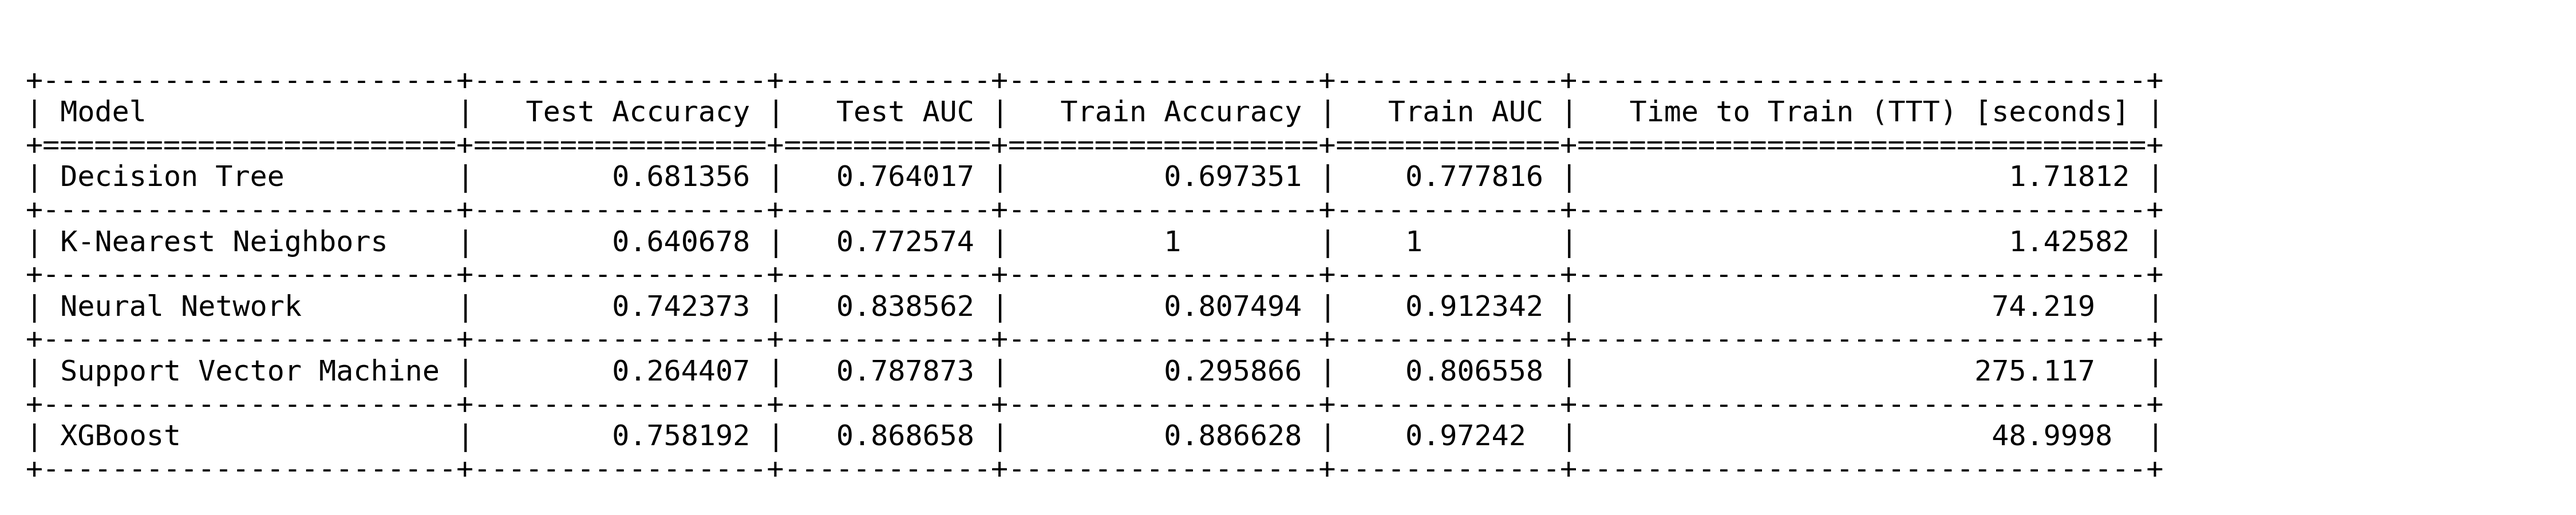
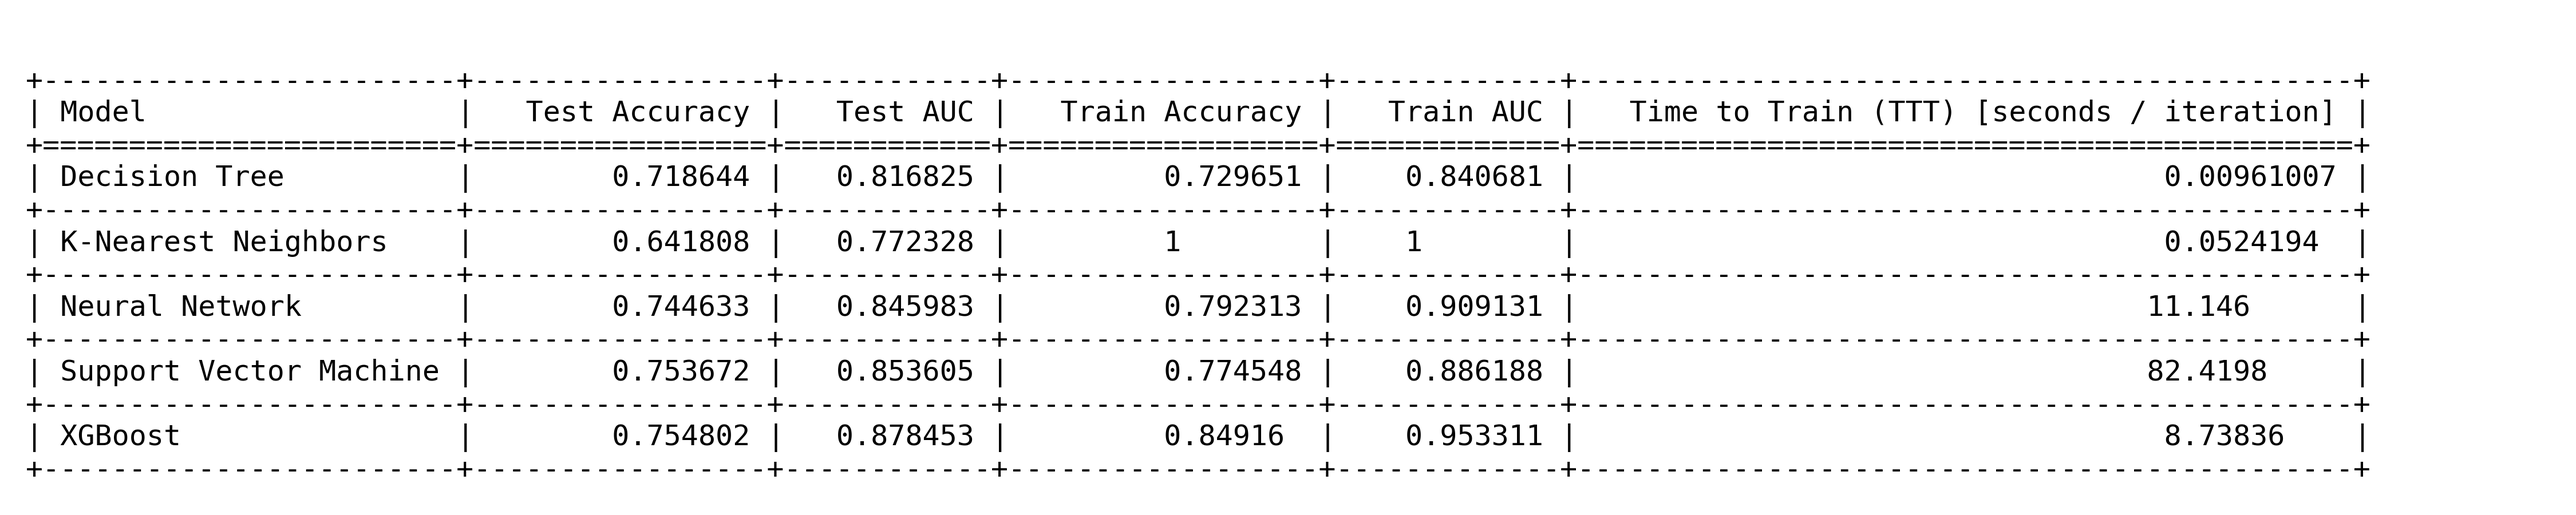
need to rerun tables

diff --git a/main/main.py b/main/main.py
@@ -207,14 +207,27 @@ def get_auction_verification_model_metrics(
 
     #############
     start_time = time.time()
-    input_size, num_epochs = X_train.shape[1], 500
+    input_size, num_epochs, learning_rate, multiclass, num_classes = (
+        X_train.shape[1],
+        500,
+        0.001,
+        False,
+        2,
+    )
     (
         nn_test_accuracy,
         nn_test_auc,
         nn_train_accuracy,
         nn_train_auc,
     ) = neural_network_metrics(
-        train_loader, val_loader, test_loader, input_size, num_epochs
+        train_loader,
+        val_loader,
+        test_loader,
+        input_size,
+        num_epochs,
+        learning_rate,
+        multiclass,
+        num_classes,
     )
     end_time = time.time()
     nn_elapsed_time = end_time - start_time
@@ -263,7 +276,7 @@ def get_auction_verification_model_metrics(
                 nn_test_auc,
                 nn_train_accuracy,
                 nn_train_auc,
-                nn_elapsed_time / 10,
+                nn_elapsed_time / 500,
             ],
             [
                 "Support Vector Machine",
@@ -435,7 +448,7 @@ def get_student_dropout_model_metrics(
                 nn_test_auc,
                 nn_train_accuracy,
                 nn_train_auc,
-                nn_elapsed_time / 10,
+                nn_elapsed_time / 500,
             ],
             [
                 "Support Vector Machine",
@@ -934,13 +947,14 @@ if __name__ == "__main__":
     get_auction_verification_model_metrics()
     get_student_dropout_model_metrics()
 
-    get_auction_percentage_curves()
-    get_dropout_percentage_curves()
+    # get_auction_percentage_curves()
+    # get_dropout_percentage_curves()
 
-    get_neural_network_percentage_curves()
+    # get_neural_network_percentage_curves()
 
-    ## TODO: Get Best Models, save them as artifacts,
+    ## TODO: Rerun 2 model_metrics() functions, get best models, save them as artifacts,
     ## and use this to get hyperparameter information and feature importances (i.e. SHAP)
     ## %
-    
+    ##
+    ##
     ## %
